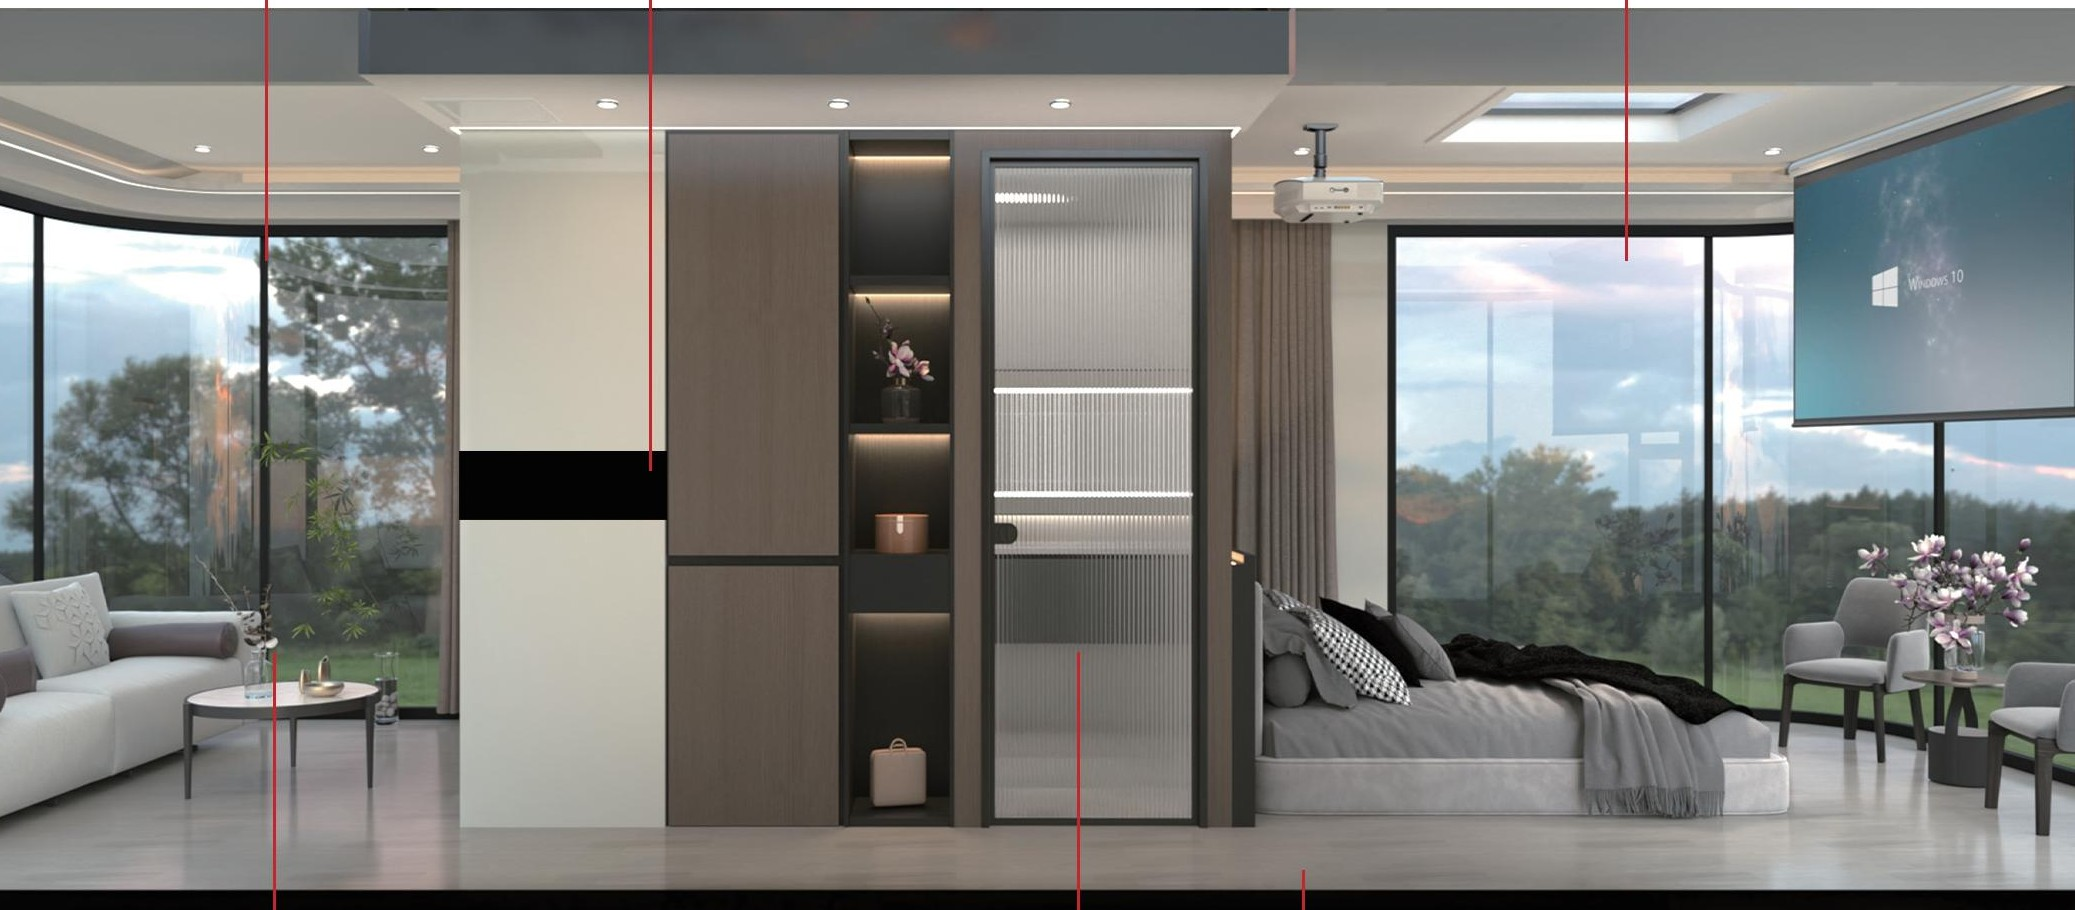
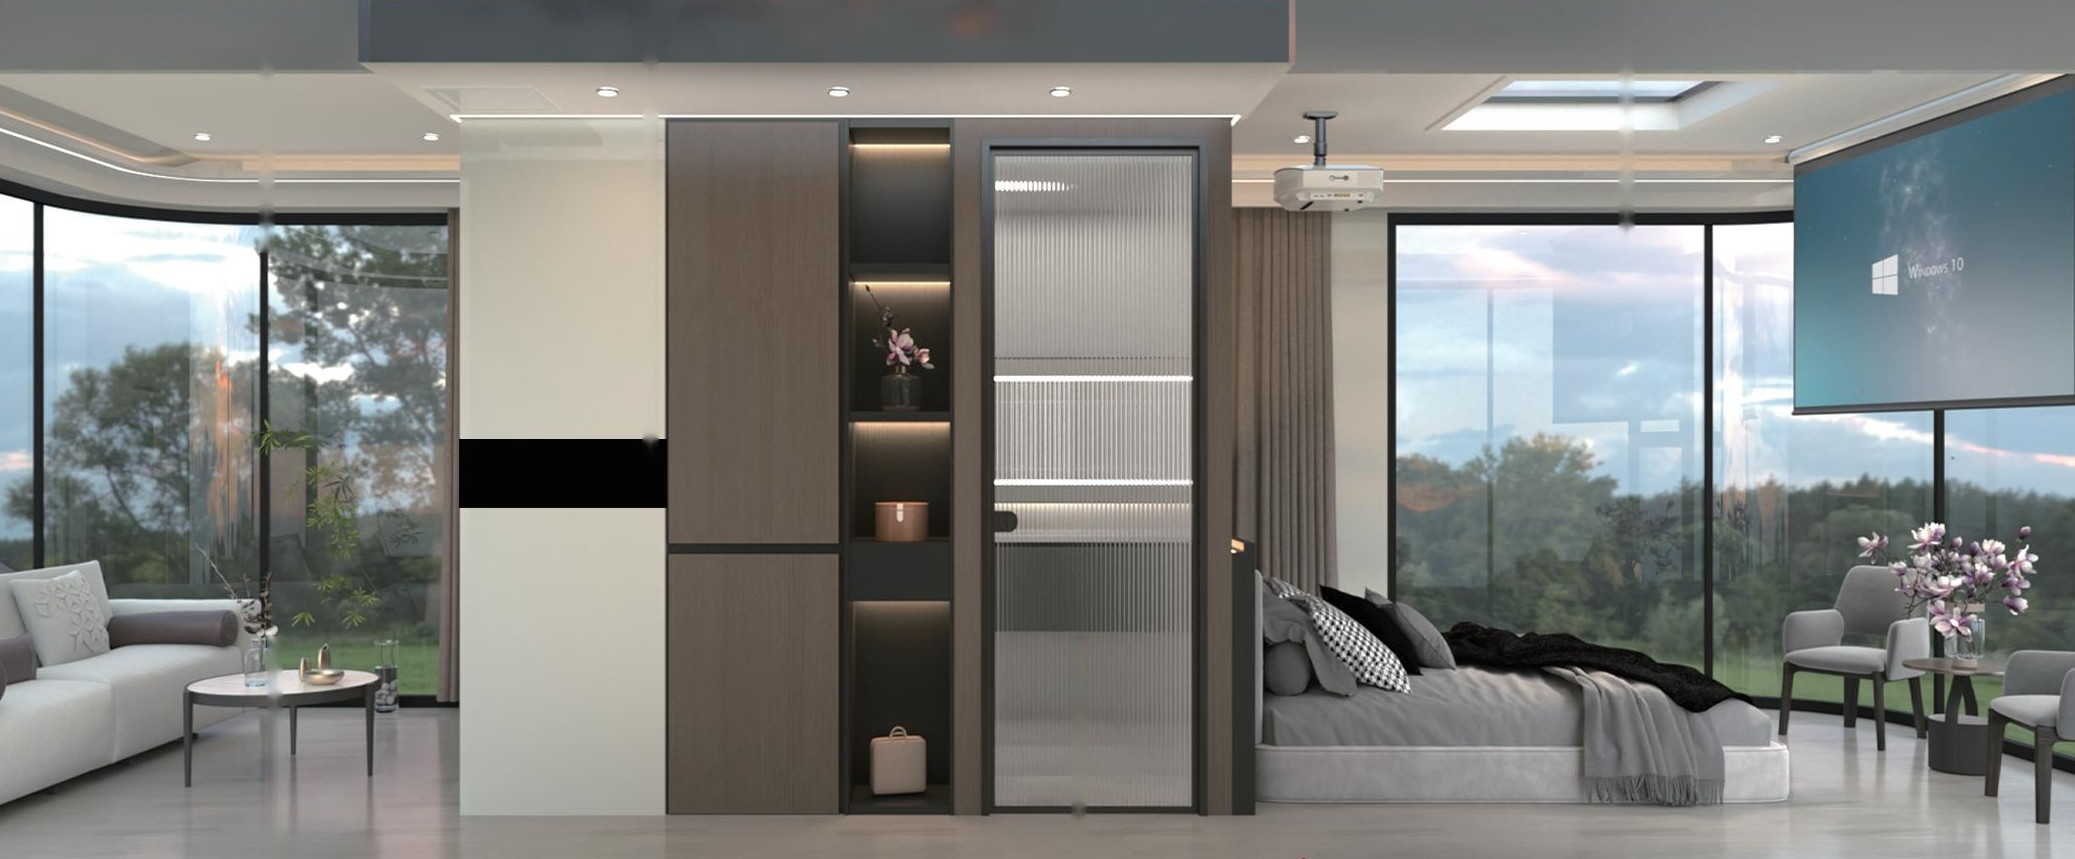
인테리어 디테일 섹션을 카탈로그 구성에 맞게 개편
- 사진 위 번호 포인트 6개 + 카탈로그 지시선 문구 설명 (호버 시 서로 강조)
- 표준배합/선택배치 시스템 목록을 좌측 패널로 배치
- 인테리어 사진에서 카탈로그 지시선(빨간 선)과 하단 검은 띠 제거

Claude-Session: https://claude.ai/code/session_01Bxt4XF1qPbJ7au8CFbRaHb

diff --git a/components/InteriorDetail.tsx b/components/InteriorDetail.tsx
@@ -1,0 +1,83 @@
+"use client";
+
+import { useState } from "react";
+import { interiorFeatures, optionalSystems, standardSystems } from "@/content/models";
+import { Eyebrow, Photo, SectionTitle } from "./ui";
+
+/** 인테리어 디테일: 사진 위 번호 포인트 + 설명, 좌측 시스템 목록 (카탈로그 구성) */
+export default function InteriorDetail() {
+  const [active, setActive] = useState<number | null>(null);
+
+  return (
+    <section id="interior" className="mx-auto max-w-[1320px] scroll-mt-[68px] px-8 py-28">
+      <div className="mb-12 flex flex-col gap-3.5">
+        <Eyebrow>03 — INTERIOR</Eyebrow>
+        <SectionTitle>인테리어 디테일</SectionTitle>
+      </div>
+
+      <div className="grid gap-10 lg:grid-cols-[minmax(0,340px)_minmax(0,1fr)] lg:gap-14">
+        <div className="flex min-w-0 flex-col gap-10 lg:order-2">
+          <div className="relative aspect-[2075/859] overflow-hidden rounded-md bg-well">
+            <Photo src="/img/interior.jpg" alt="인테리어 전경" sizes="(min-width: 1320px) 900px, 100vw" />
+            {interiorFeatures.map((f, i) => (
+              <button
+                key={f.n}
+                type="button"
+                aria-label={`${f.n} ${f.title}`}
+                onMouseEnter={() => setActive(i)}
+                onMouseLeave={() => setActive(null)}
+                onFocus={() => setActive(i)}
+                onBlur={() => setActive(null)}
+                onClick={() => setActive(active === i ? null : i)}
+                style={{ left: `${f.x}%`, top: `${f.y}%` }}
+                className={`absolute flex size-[clamp(22px,2.4vw,30px)] -translate-x-1/2 -translate-y-1/2 cursor-pointer items-center justify-center rounded-full font-mono text-[clamp(10px,1vw,12px)] font-medium shadow-[0_0_0_3px_rgba(244,243,239,.7),0_2px_8px_rgba(0,0,0,.25)] transition-colors ${
+                  active === i ? "bg-accent text-paper" : "bg-ink text-paper"
+                }`}
+              >
+                {i + 1}
+              </button>
+            ))}
+          </div>
+
+          <ol className="m-0 grid list-none grid-cols-[repeat(auto-fit,minmax(min(100%,240px),1fr))] gap-x-8 gap-y-7 p-0">
+            {interiorFeatures.map((f, i) => (
+              <li
+                key={f.n}
+                onMouseEnter={() => setActive(i)}
+                onMouseLeave={() => setActive(null)}
+                className={`flex flex-col gap-2 border-t pt-4 transition-colors ${active === i ? "border-accent" : "border-[rgba(23,24,26,.15)]"}`}
+              >
+                <div className="flex items-baseline gap-3">
+                  <span className="font-mono text-[12px] font-medium text-accent">{f.n}</span>
+                  <h3 className="m-0 text-[17px] font-bold tracking-[-0.01em]">{f.title}</h3>
+                </div>
+                <p className="m-0 text-[15px] leading-[1.7] text-pretty text-body">{f.body}</p>
+              </li>
+            ))}
+          </ol>
+        </div>
+
+        <aside className="flex flex-col gap-10 self-start rounded-md bg-paper-2 p-[clamp(24px,3vw,36px)] lg:order-1">
+          <SystemList title="표준배합시스템" items={standardSystems} />
+          <SystemList title="선택배치시스템" items={optionalSystems} />
+        </aside>
+      </div>
+    </section>
+  );
+}
+
+function SystemList({ title, items }: { title: string; items: { n: string; t: string }[] }) {
+  return (
+    <div className="flex flex-col gap-4">
+      <h3 className="m-0 text-[22px] font-bold tracking-[-0.02em]">{title}</h3>
+      <ul className="m-0 flex list-none flex-col border-t border-ink p-0">
+        {items.map((s) => (
+          <li key={s.n} className="flex gap-3.5 border-b border-[rgba(23,24,26,.12)] py-[11px] text-[15px] leading-[1.45]">
+            <span className="min-w-[20px] pt-[2px] font-mono text-[12px] font-medium text-accent">{s.n}</span>
+            <span>{s.t}</span>
+          </li>
+        ))}
+      </ul>
+    </div>
+  );
+}

diff --git a/components/Sections.tsx b/components/Sections.tsx
@@ -1,4 +1,4 @@
-import { cases, contact, installSteps, optionalSystems, sites, standardSystems, workPhotos } from "@/content/models";
+import { cases, contact, installSteps, sites, workPhotos } from "@/content/models";
 import { Caption, Eyebrow, Photo, SectionTitle, SubTitle } from "./ui";
 
 function SectionHead({ eyebrow, title, dark = false }: { eyebrow: string; title: string; dark?: boolean }) {
@@ -16,37 +16,6 @@ function SubHead({ title, meta }: { title: string; meta: string }) {
       <SubTitle>{title}</SubTitle>
       <Caption>{meta}</Caption>
     </div>
-  );
-}
-
-function NumberedList({ title, items }: { title: string; items: { n: string; t: string }[] }) {
-  return (
-    <div className="flex flex-col gap-5">
-      <SubTitle>{title}</SubTitle>
-      <div className="flex flex-col border-t border-ink">
-        {items.map((s) => (
-          <div key={s.n} className="flex gap-4 border-b border-[rgba(23,24,26,.12)] py-[13px] text-[16px]">
-            <span className="min-w-[22px] pt-[3px] font-mono text-[12px] font-medium text-accent">{s.n}</span>
-            <span>{s.t}</span>
-          </div>
-        ))}
-      </div>
-    </div>
-  );
-}
-
-export function Interior() {
-  return (
-    <section id="interior" className="mx-auto max-w-[1320px] scroll-mt-[68px] px-8 py-28">
-      <SectionHead eyebrow="03 — INTERIOR" title="인테리어 디테일" />
-      <div className="mb-14 aspect-[21/9] overflow-hidden rounded-md bg-well">
-        <Photo src="/img/interior.jpg" alt="실내 전경" sizes="(min-width: 1320px) 1256px, 100vw" />
-      </div>
-      <div className="grid grid-cols-[repeat(auto-fit,minmax(min(100%,420px),1fr))] gap-14">
-        <NumberedList title="표준배합시스템" items={standardSystems} />
-        <NumberedList title="선택배치시스템" items={optionalSystems} />
-      </div>
-    </section>
   );
 }
 

diff --git a/content/models.ts b/content/models.ts
@@ -81,6 +81,16 @@ export const optionalSystems = numbered([
   "선루프 시스템 설치",
 ]);
 
+/** 인테리어 사진 위 포인트. x, y = 사진 기준 위치(%). 카탈로그 '인테리어 디테일' 지시선 문구. */
+export const interiorFeatures = [
+  { x: 29.2, y: 10.5, title: "LED 조명 · 선루프", body: "LED 조명, 선루프 옵션이 추가됩니다. 스마트 모드와 결합되어 조명 환경을 쉽게 조절할 수 있습니다." },
+  { x: 31.3, y: 53, title: "인텔리전트 컨트롤", body: "풀 하우스 인텔리전트 컨트롤 시스템 패널을 통합할 수 있으며, 모바일 단말기에서 원격 조종할 수 있습니다." },
+  { x: 78.3, y: 30, title: "270° 파노라마 창", body: "270° 파노라마 창문으로 구성된 럭셔리한 풍경 속에서 자는 꿈을 실현합니다." },
+  { x: 13.5, y: 84, title: "자유로운 평면 레이아웃", body: "완전히 자유로운 평면 레이아웃으로 다양한 상황에서 최대한의 만족과 무한한 가능성을 열어줍니다." },
+  { x: 52.5, y: 60, title: "고급 욕실", body: "푸젠 고품질 전체 욕실 라인을 사용한 고급 욕실 브랜드 제품입니다." },
+  { x: 66.7, y: 84, title: "로비 쿠션 공간", body: "순수한 자연의 즐거움의 극치를 보여주는 로비 쿠션 공간. 우리의 삶을 바꿀 수 있습니다." },
+].map((f, i) => ({ ...f, n: String(i + 1).padStart(2, "0") }));
+
 export const installSteps = [
   {
     n: "01", title: "운송 단계",

diff --git a/app/page.tsx b/app/page.tsx
@@ -1,7 +1,8 @@
 import Header from "@/components/Header";
 import Hero from "@/components/Hero";
 import ProductExplorer from "@/components/ProductExplorer";
-import { Cases, Contact, Install, Interior } from "@/components/Sections";
+import InteriorDetail from "@/components/InteriorDetail";
+import { Cases, Contact, Install } from "@/components/Sections";
 import { siteConfig } from "@/content/site";
 
 export default function Home() {
@@ -11,7 +12,7 @@ export default function Home() {
       <main>
         <Hero layout={siteConfig.heroLayout} />
         <ProductExplorer view={siteConfig.productView} />
-        <Interior />
+        <InteriorDetail />
         <Install />
         <Cases />
         <Contact />
